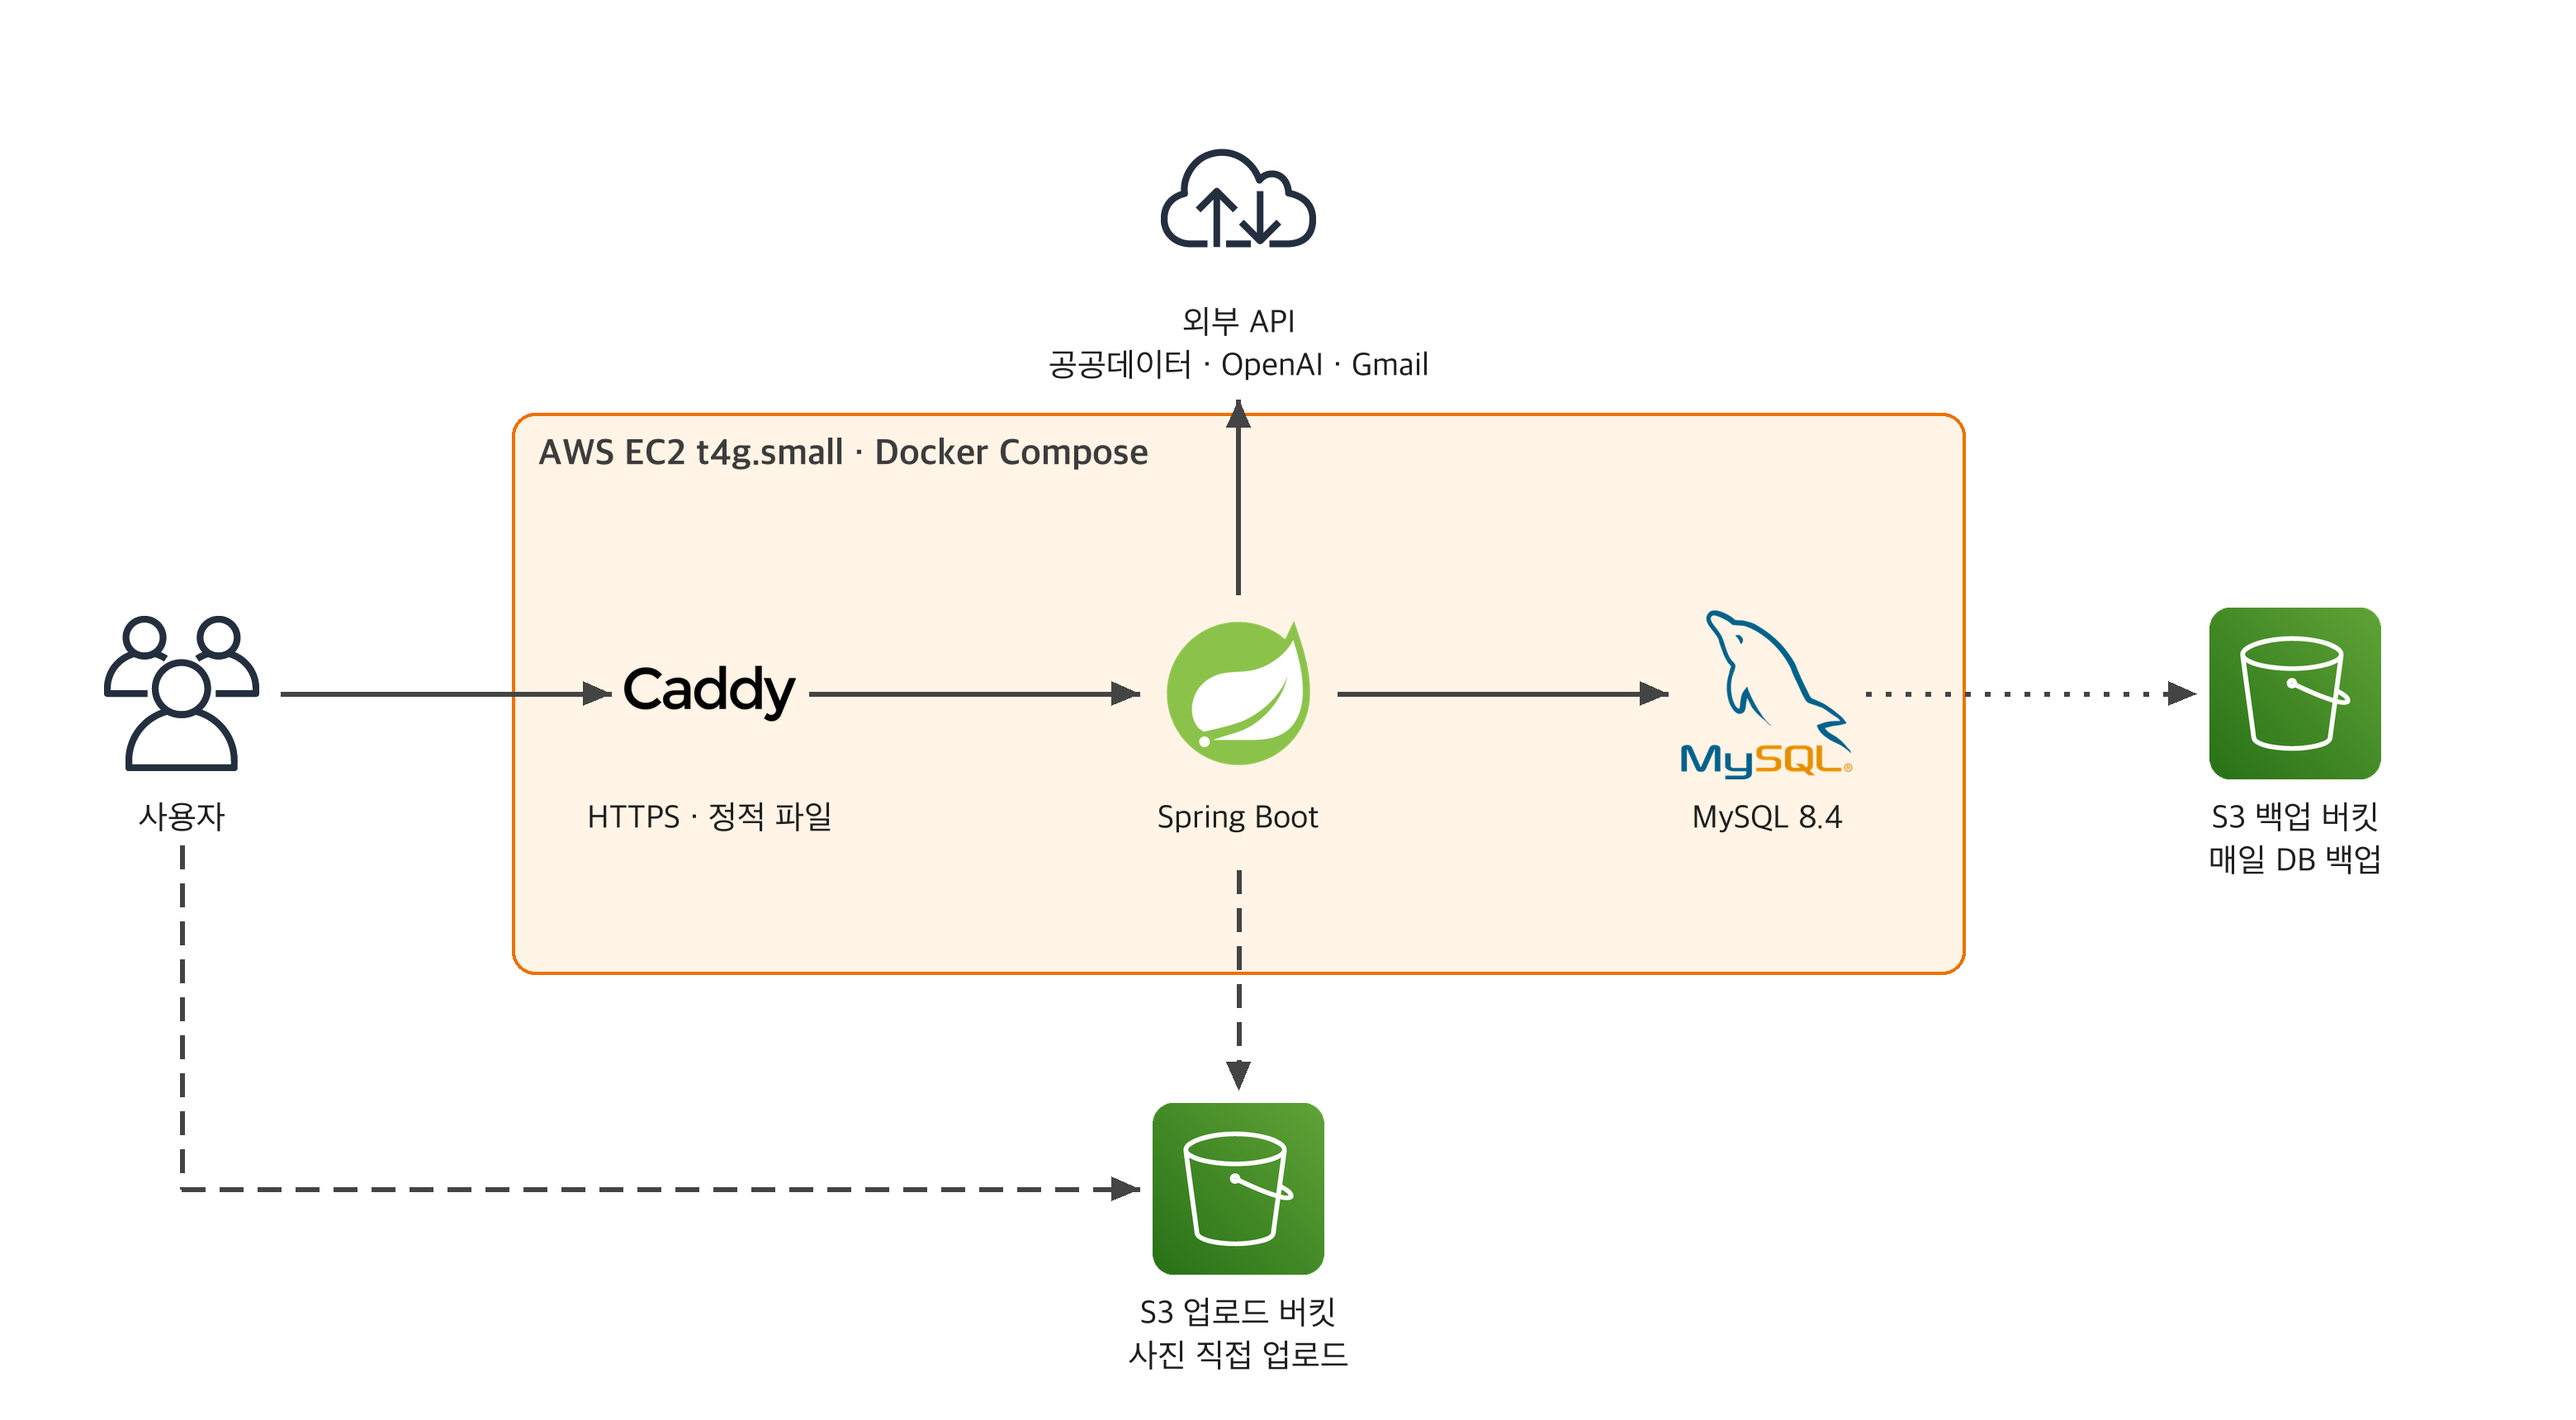
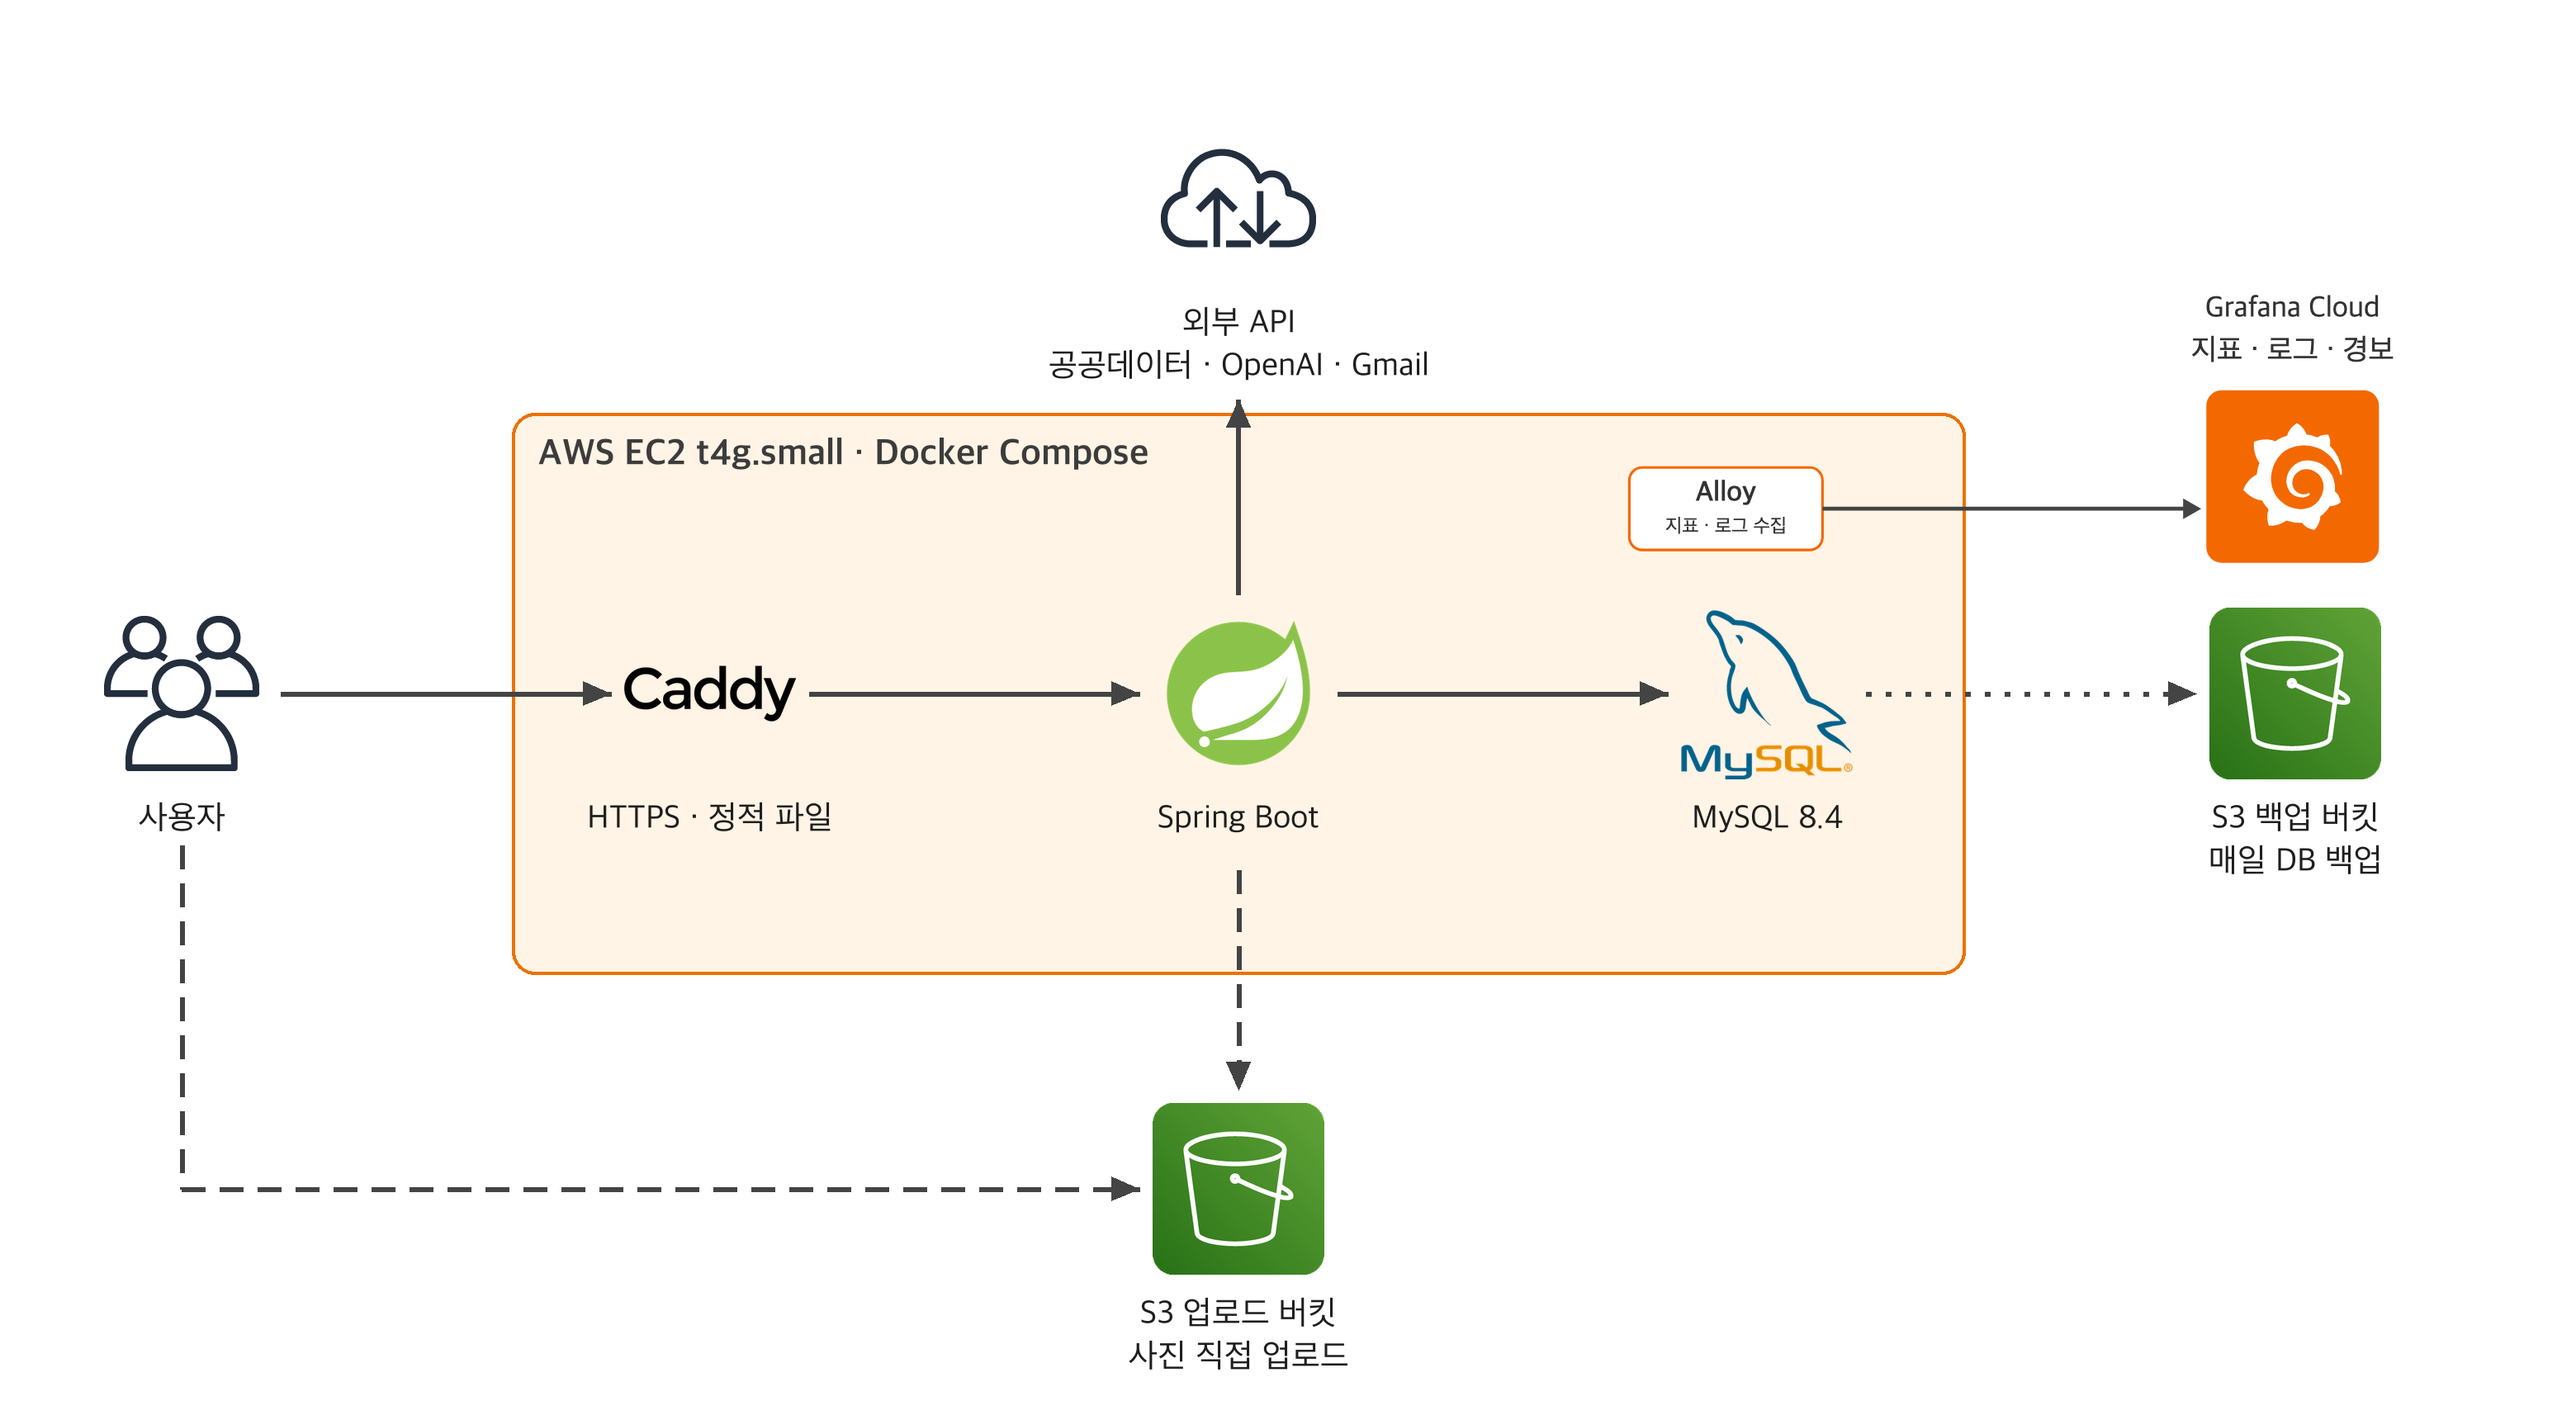
docs: README의 AI 검색 소개와 구조 설명, CI/CD·인프라 그림, dependabot 주석을 v1.4.0에 맞춘다
Refs: #1005

Changed region(s): [[0.6218, 0.2157, 0.9327, 0.4006]]

diff --git a/README.md b/README.md
@@ -26,7 +26,7 @@
 |:---:|:---:|
 |**장소 상세**|**날씨·일몰**|
 
-- **지도에서 야영지 찾기.** 공공 야영장, 자연휴양림, 회원이 제보한 박지를 한 지도에서 봅니다. 지역 이름이나 주소로 찾을 수 있고, 지도를 움직이면 보이는 범위의 장소를 다시 불러옵니다.
+- **지도에서 야영지 찾기.** 공공 야영장, 자연휴양림, 회원이 제보한 박지를 한 지도에서 봅니다. 지역 이름이나 주소로 찾을 수 있고, AI 검색을 켜면 "강원도 계곡 옆 박지" 같은 문장을 OpenAI가 검색 조건으로 바꿔 줍니다. 지도를 움직이면 보이는 범위의 장소를 다시 불러옵니다.
 - **공원 경계 경고와 출처 표시.** 박지가 자연공원 경계 안에 있으면 야영·취사 금지 경고를 띄웁니다. 장소마다 어느 공공데이터에서 왔고 언제 기준인지 함께 보여 줍니다.
 - **장소 상세, 날씨·일몰.** 장소 정보와 회원 후기·평점, 기상청 단기예보, 일출·일몰 시각을 한 화면에서 확인합니다.
 - **베이스캠프(동행 모집).** 장소와 날짜를 정해 동행을 모집합니다. 캠프 리더는 최소 신뢰 단계, 연령대, 동성만 같은 합류 조건을 걸 수 있습니다. 동행이 끝나면 서로 후기를 남깁니다.
@@ -82,7 +82,7 @@
 moewadeul
 ├── backend    # Spring Boot 서버, 로컬 MySQL compose, 부하 검증 스크립트
 ├── frontend   # React 웹 앱
-├── deploy     # 운영 서버 compose, 배포 스크립트, Caddy, 백업, Grafana 설정
+├── deploy     # 운영 서버 compose, 배포 스크립트, Caddy, 백업, Alloy·Grafana 설정
 └── .github    # CI·배포 워크플로, 이슈·PR 템플릿
 ```
 
